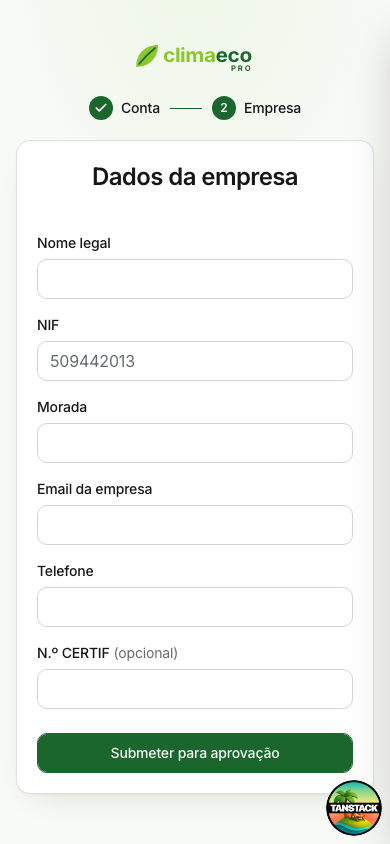
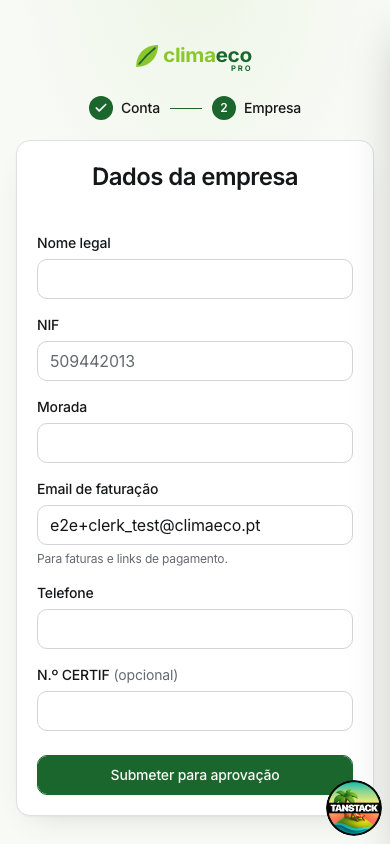
Registo: billing email prefilled from the account, relabelled with a hint
The company email is the billing contact (stored on the company, shown to
staff, sent to Revolut as the customer email), not the login. It now starts
as the signed-in account's primary email and stays editable, labelled
"Email de faturação" with "Para faturas e links de pagamento."

Changed region(s): [[0.0923, 0.6161, 0.9231, 0.955], [0.2154, 0.5545, 0.4, 0.5853]]

diff --git a/client-frontend/src/routes/_minimal/registo.tsx b/client-frontend/src/routes/_minimal/registo.tsx
@@ -1,6 +1,6 @@
 import { useState } from "react"
 import type { FormEvent } from "react"
-import { Show, SignUp, useClerk } from "@clerk/tanstack-react-start"
+import { Show, SignUp, useClerk, useUser } from "@clerk/tanstack-react-start"
 import { createFileRoute, Navigate } from "@tanstack/react-router"
 import { useAction, useQuery } from "convex/react"
 import { Check } from "lucide-react"
@@ -174,6 +174,7 @@ function FormularioEmpresa({
   onEnviado: (nomeLegal: string) => void
 }) {
   const { setActive } = useClerk()
+  const { user } = useUser()
   const registar = useAction(api.empresasActions.registar)
   const [erro, setErro] = useState<string | null>(null)
   const [nifErro, setNifErro] = useState<string | null>(null)
@@ -256,12 +257,17 @@ function FormularioEmpresa({
         autoComplete="street-address"
         required
       />
+      {/* Billing contact of the company (invoices, payment links), stored on
+          the company and shown to staff. Usually the registrant's own address,
+          so it starts as the account email and stays editable. */}
       <Campo
         nome="email"
-        label="Email da empresa"
+        label="Email de faturação"
+        dica="Para faturas e links de pagamento."
         type="email"
         autoComplete="email"
         inputMode="email"
+        defaultValue={user?.primaryEmailAddress?.emailAddress ?? ""}
         required
       />
       <Campo
@@ -289,15 +295,20 @@ function Campo({
   nome,
   label,
   opcional,
+  dica,
   erro,
   ...props
 }: Omit<React.ComponentProps<typeof Input>, "name" | "id"> & {
   nome: string
   label: string
   opcional?: boolean
+  dica?: string
   erro?: string | null
 }) {
   const id = `registo-${nome}`
+  const descritoPor = [erro && `${id}-erro`, dica && `${id}-dica`]
+    .filter(Boolean)
+    .join(" ")
   return (
     <div className="flex flex-col gap-1.5">
       <label htmlFor={id} className="text-sm font-medium">
@@ -312,13 +323,19 @@ function Campo({
         id={id}
         name={nome}
         aria-invalid={erro ? true : undefined}
-        aria-describedby={erro ? `${id}-erro` : undefined}
+        aria-describedby={descritoPor || undefined}
         {...props}
       />
-      {erro && (
+      {erro ? (
         <p id={`${id}-erro`} className="text-xs text-destructive">
           {erro}
         </p>
+      ) : (
+        dica && (
+          <p id={`${id}-dica`} className="text-xs text-muted-foreground">
+            {dica}
+          </p>
+        )
       )}
     </div>
   )
